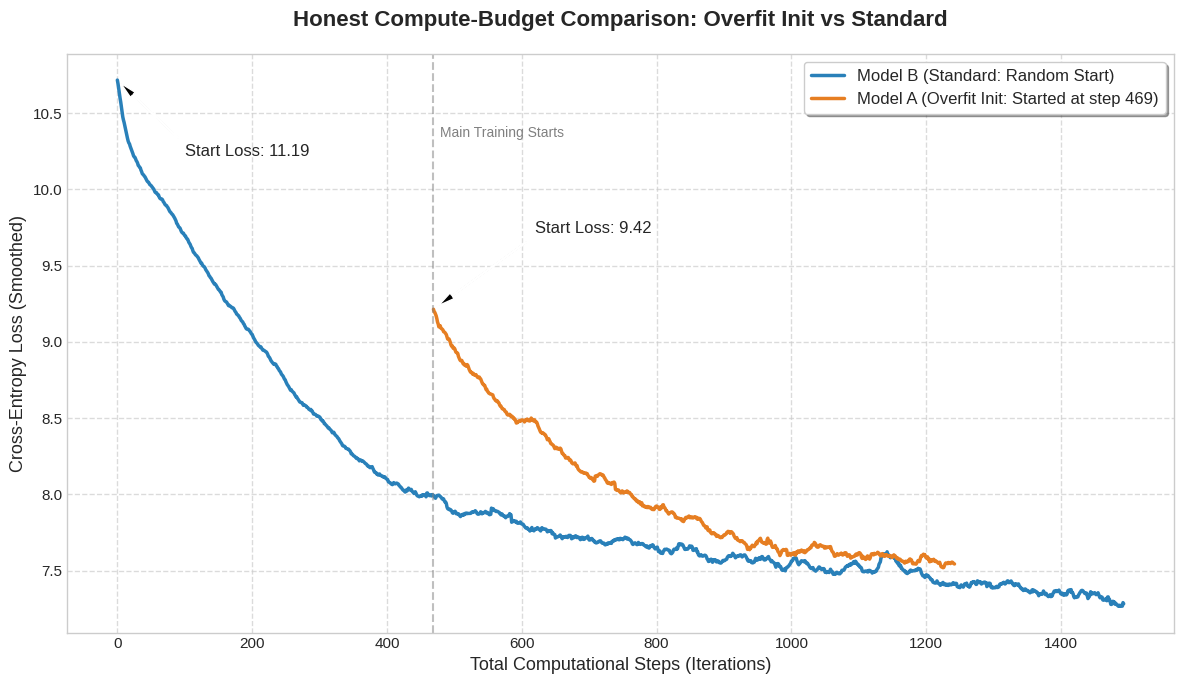
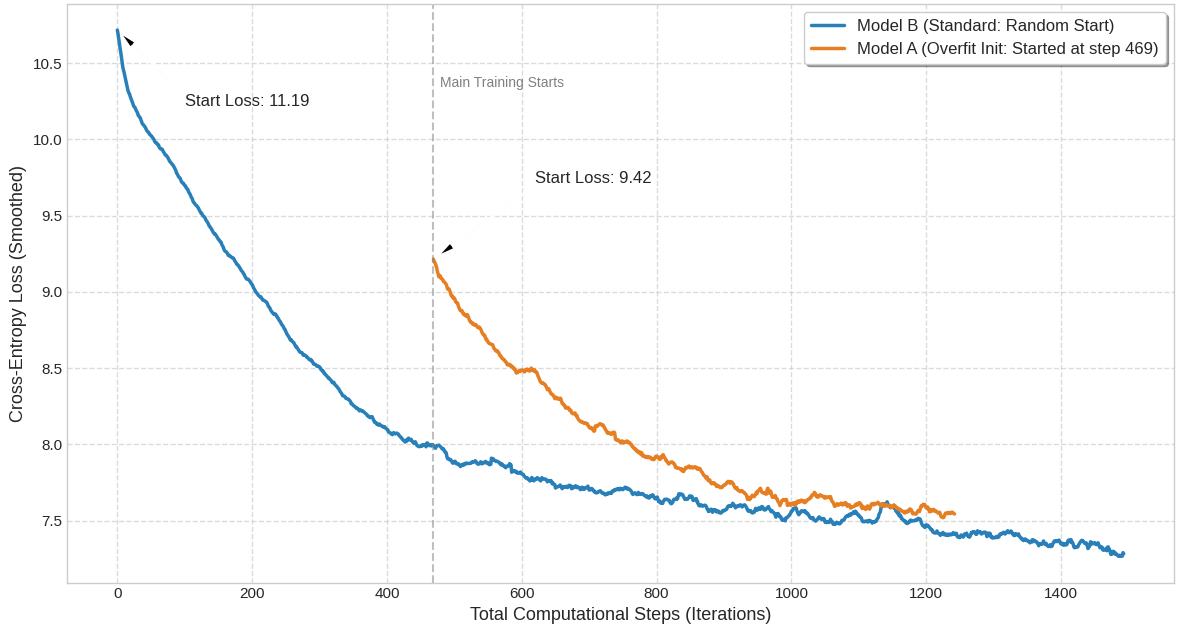
feat: add README

diff --git a/README.md b/README.md
@@ -1,0 +1,48 @@
+# Single-Batch Overfitting
+
+Этот репозиторий содержит материалы исследования гипотезы: может ли оверфиттинг модели на изолированном батче ускорить сходимость при последующем обучении на полном датасете.
+
+## Теоретическое обоснование и формулирование гипотезы
+
+Стандартные методы инициализации весов используют статистические распределения для предотвращения затухания или взрыва градиентов. Однако в сложных задачах, таких как моделирование естественного языка (LLM), модель с инициализацией из случайного шума тратит значительный вычислительный бюджет на первых этапах обучения лишь для того, чтобы усвоить базовые структурные паттерны (синтаксис, распределение токенов, закрытие тегов).
+
+---
+
+## CIFAR-10
+
+Первая проверка гипотезы проводилась на задачах компьютерного зрения с использованием архитектур семейств ResNet и CNN на датасете CIFAR-10. 
+
+Модель "A" обучалась в стандартном режиме. Модель "B" предварительно переобучалась на одном батче (500 итераций) до околонулевого значения функции потерь, после чего переводилась на полный датасет.
+
+Статистика приведена с учётом итераций на начальный оверфиттинг.
+
+![alt text](cifar/BN.png)
+
+В архитектуре с Batch Normalization скорость обучения остаётся идентичной, но single-batch проигрывает по эффективности из-за необходимости дополнительных шагов на инициализацию. 
+
+![alt text](cifar/noBN.png)
+Без слоёв нормализации метод даёт более оптимистичный результат, он даёт небольшое преимущество по сравнению с базовой моделью, но использовать его смысла нет.
+
+## LLM pre-training
+
+В отличие от изображений, выучить структуру языка с нуля гораздо сложнее. Претрейн LLM всегда требовал много времени и ресурсов. Предполагалось, что закрепление начального синтаксиса должно ускорить дальнейшую сходимость модели. 
+
+Для тестирования гипотезы была использована архитектура [Baguettotron](https://huggingface.co/PleIAs/Baguettotron) (321M параметров, 80 слоев). Эксперимент проводился на англоязычном подмножестве синтетического датасета [PleIAs/SYNTH](https://huggingface.co/datasets/PleIAs/SYNTH).
+
+Было проведено два замера с разным количеством итераций на инициализацию. Во всех случаях скорость сходимости предложенного метода был выше.
+
+В отличие от тестов на CIFAR, здесь начальное ускорение оказалось настолько значимым, что лосс в итоге сравнялся с показателями бейзлайна, несмотря на существенное отставание по времени старта. В первом сценарии задержка составила 456 итераций, но лоссы смогли пересечься уже к тысячной итерации.
+
+Тем не менее нужно учитывать, что на 456-й итерации лосс у бейзлайна уже составлял 8.0, а пересечение метрик произошло на уровне лосса 7.5-7.6.
+
+![alt text](llm/llm_compare.png) 
+
+![alt text](llm/llm_smalloverfit_compare.png)
+
+## Выводы
+
+#### Гипотеза требует дальнейшей проверки.
+
+1. Чуть больше 1000 итераций для претрейна с нуля — это очень мало. Гипотеза может раскрыться в ходе дальнейшего обучения.
+2. Можно предположить, что роль играет репрезентативность батча, который мы берём для инициализации. При тестировании был использовал случайный батч. 
+3. Можно попробовать обучать на нескольких батчах, постепенно сокращая количество итераций.
